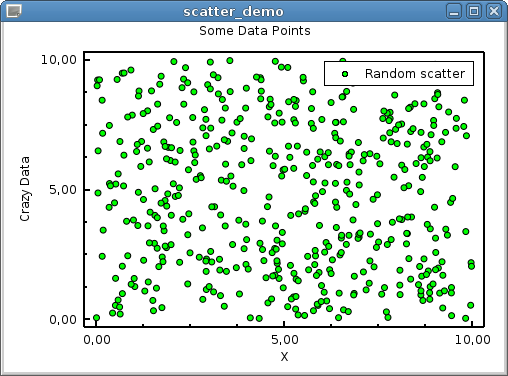
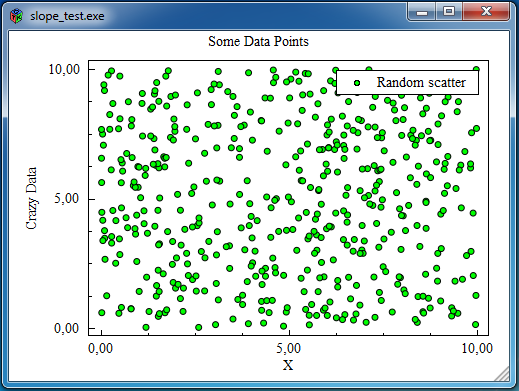
Add a Windows demo

diff --git a/demos/scatter.c b/demos/scatter.c
@@ -15,7 +15,6 @@ int main(int argc, char *argv[])
     slope_figure_t *figure;
     slope_scale_t *scale;
     slope_item_t *series;
-    slope_pen_t pen;
 
     double x[NPTS], y[NPTS];
     int k;
@@ -32,9 +31,6 @@ int main(int argc, char *argv[])
     /* create a linear (cartesian) scale and set it's axis labels */
     scale = slope_linear_new("linear scale");
     slope_linear_set_axis_labels(scale, "X", "Crazy Data", "","");
-    pen.color = SLOPE_BLACK;
-    pen.line_width = 2.0;
-    slope_linear_set_axis_pen(scale, &pen);
 
     /* add the plots to the scale */
     slope_scale_add_item(scale, series);

diff --git a/README.md b/README.md
@@ -20,7 +20,7 @@ demos directory in the source tree.
 
 ![](https://github.com/elvismt/slope/blob/master/demos/cos_demo.png)
 
-* A quick plot of a data series
+* A quick plot of a data series in a Windows(R) build (MinGW)
 
 ![](https://github.com/elvismt/slope/blob/master/demos/scatter_demo.png)
 
